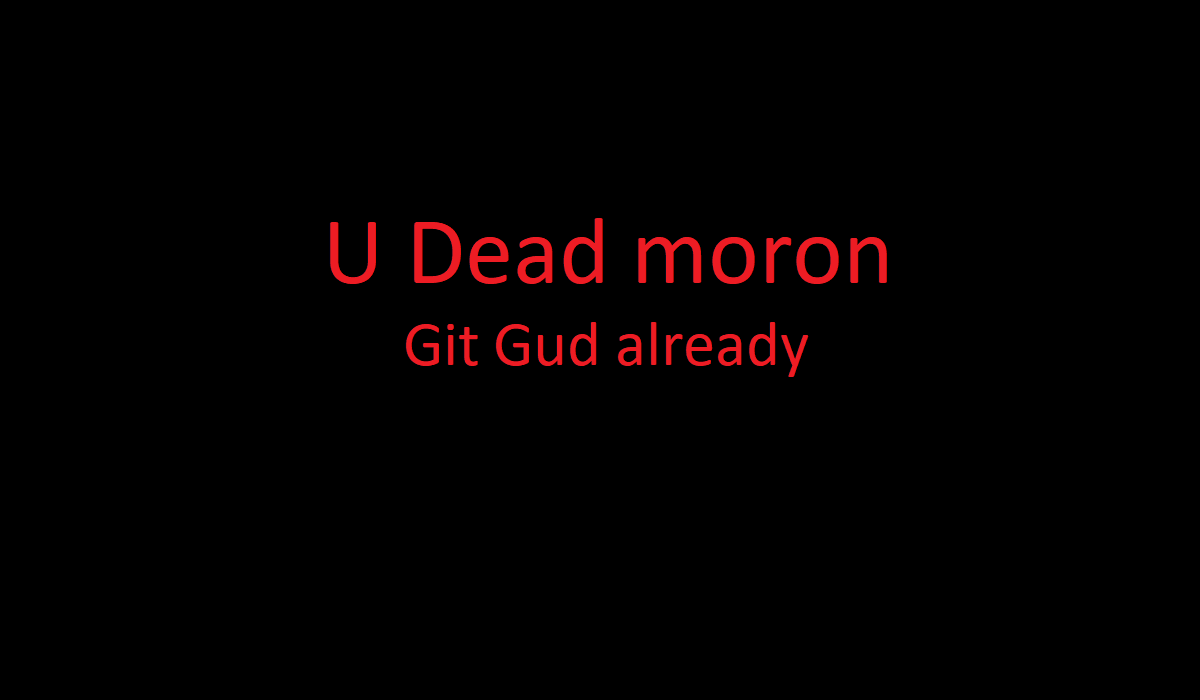
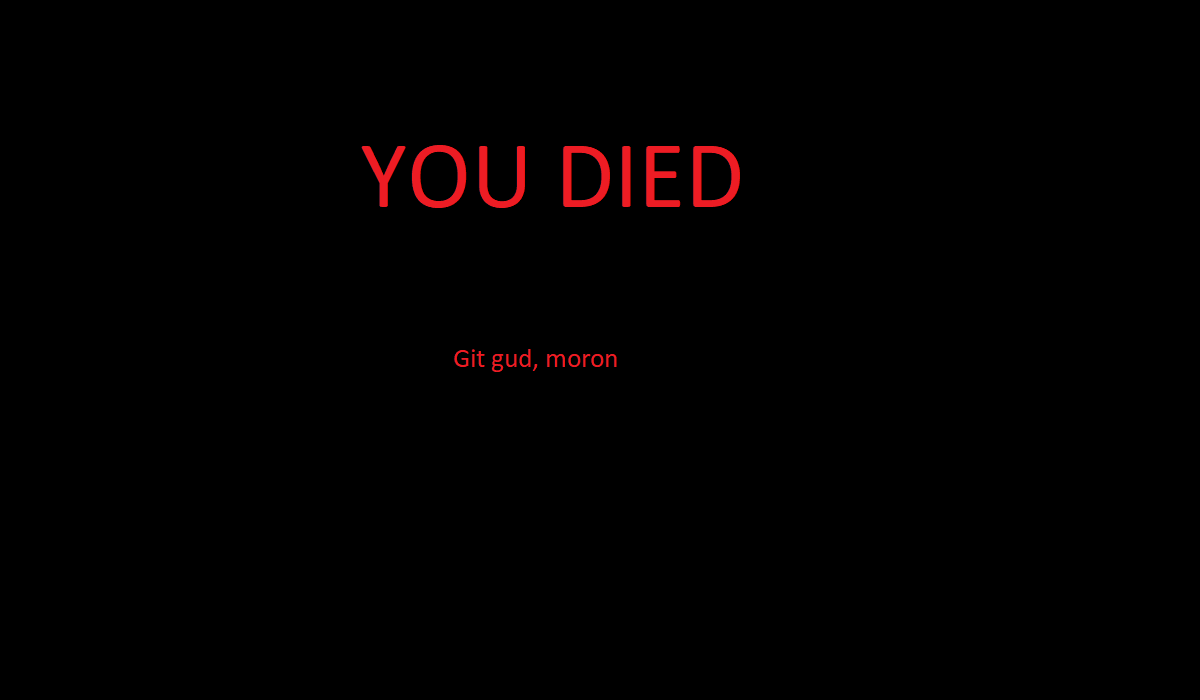
Changed game_over screen

Changed region(s): [[0.2775, 0.21, 0.74, 0.42], [0.3392, 0.45, 0.6783, 0.54]]

diff --git a/Game/game.py b/Game/game.py
@@ -34,7 +34,7 @@ class Game:
         self.bg = pygame.transform.scale(self.bg, (self.width, self.height))
         self.end_map = pygame.image.load(os.path.join("..\Grafika", "Koniec.png"))
         self.menu_map = pygame.image.load(os.path.join("..\Grafika", "Menu.png"))
-        self.game_over_map = pygame.image.load(os.path.join("..\Grafika", "GameOver_0.png"))
+        self.game_over_map = pygame.image.load(os.path.join("..\Grafika", "GameOver.png"))
 
 
 
